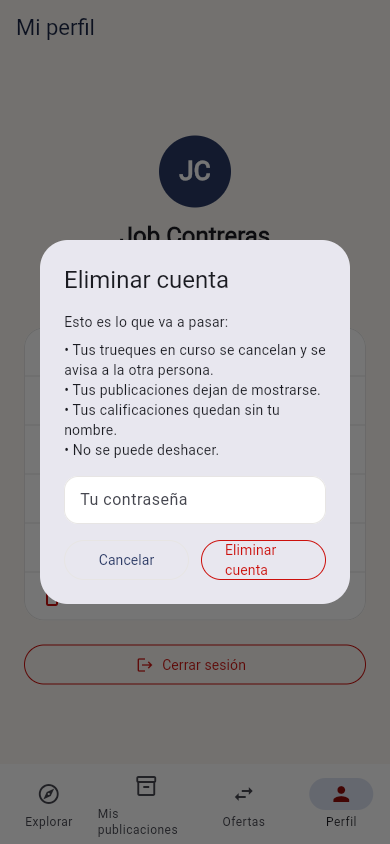
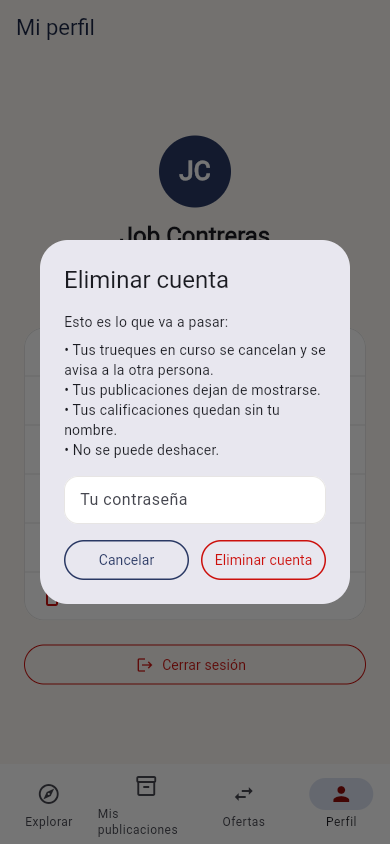
fix: mismo peso en botones de eliminar cuenta

Changed region(s): [[0.5538, 0.6469, 0.8, 0.7085], [0.4615, 0.6469, 0.4923, 0.6777], [0.1538, 0.6469, 0.1846, 0.6777]]

diff --git a/trueque-u/app/lib/widgets/dialogo_eliminar_cuenta.dart b/trueque-u/app/lib/widgets/dialogo_eliminar_cuenta.dart
@@ -83,8 +83,13 @@ class _DialogoEliminarCuentaState extends State<DialogoEliminarCuenta> {
                 Expanded(
                   child: OutlinedButton(
                     key: const Key('boton-cancelar-eliminar'),
+                    style: OutlinedButton.styleFrom(
+                      foregroundColor: colores.primary,
+                      side: BorderSide(color: colores.primary, width: 1.5),
+                      padding: const EdgeInsets.symmetric(horizontal: 8, vertical: 12),
+                    ),
                     onPressed: _enviando ? null : () => Navigator.of(context).pop(),
-                    child: const Text('Cancelar'),
+                    child: const Text('Cancelar', maxLines: 1),
                   ),
                 ),
                 const SizedBox(width: 12),
@@ -93,10 +98,11 @@ class _DialogoEliminarCuentaState extends State<DialogoEliminarCuenta> {
                     key: const Key('boton-confirmar-eliminar'),
                     style: OutlinedButton.styleFrom(
                       foregroundColor: colores.error,
-                      side: BorderSide(color: colores.error),
+                      side: BorderSide(color: colores.error, width: 1.5),
+                      padding: const EdgeInsets.symmetric(horizontal: 8, vertical: 12),
                     ),
                     onPressed: _enviando ? null : _eliminar,
-                    child: const Text('Eliminar cuenta'),
+                    child: const Text('Eliminar cuenta', maxLines: 1),
                   ),
                 ),
               ],
